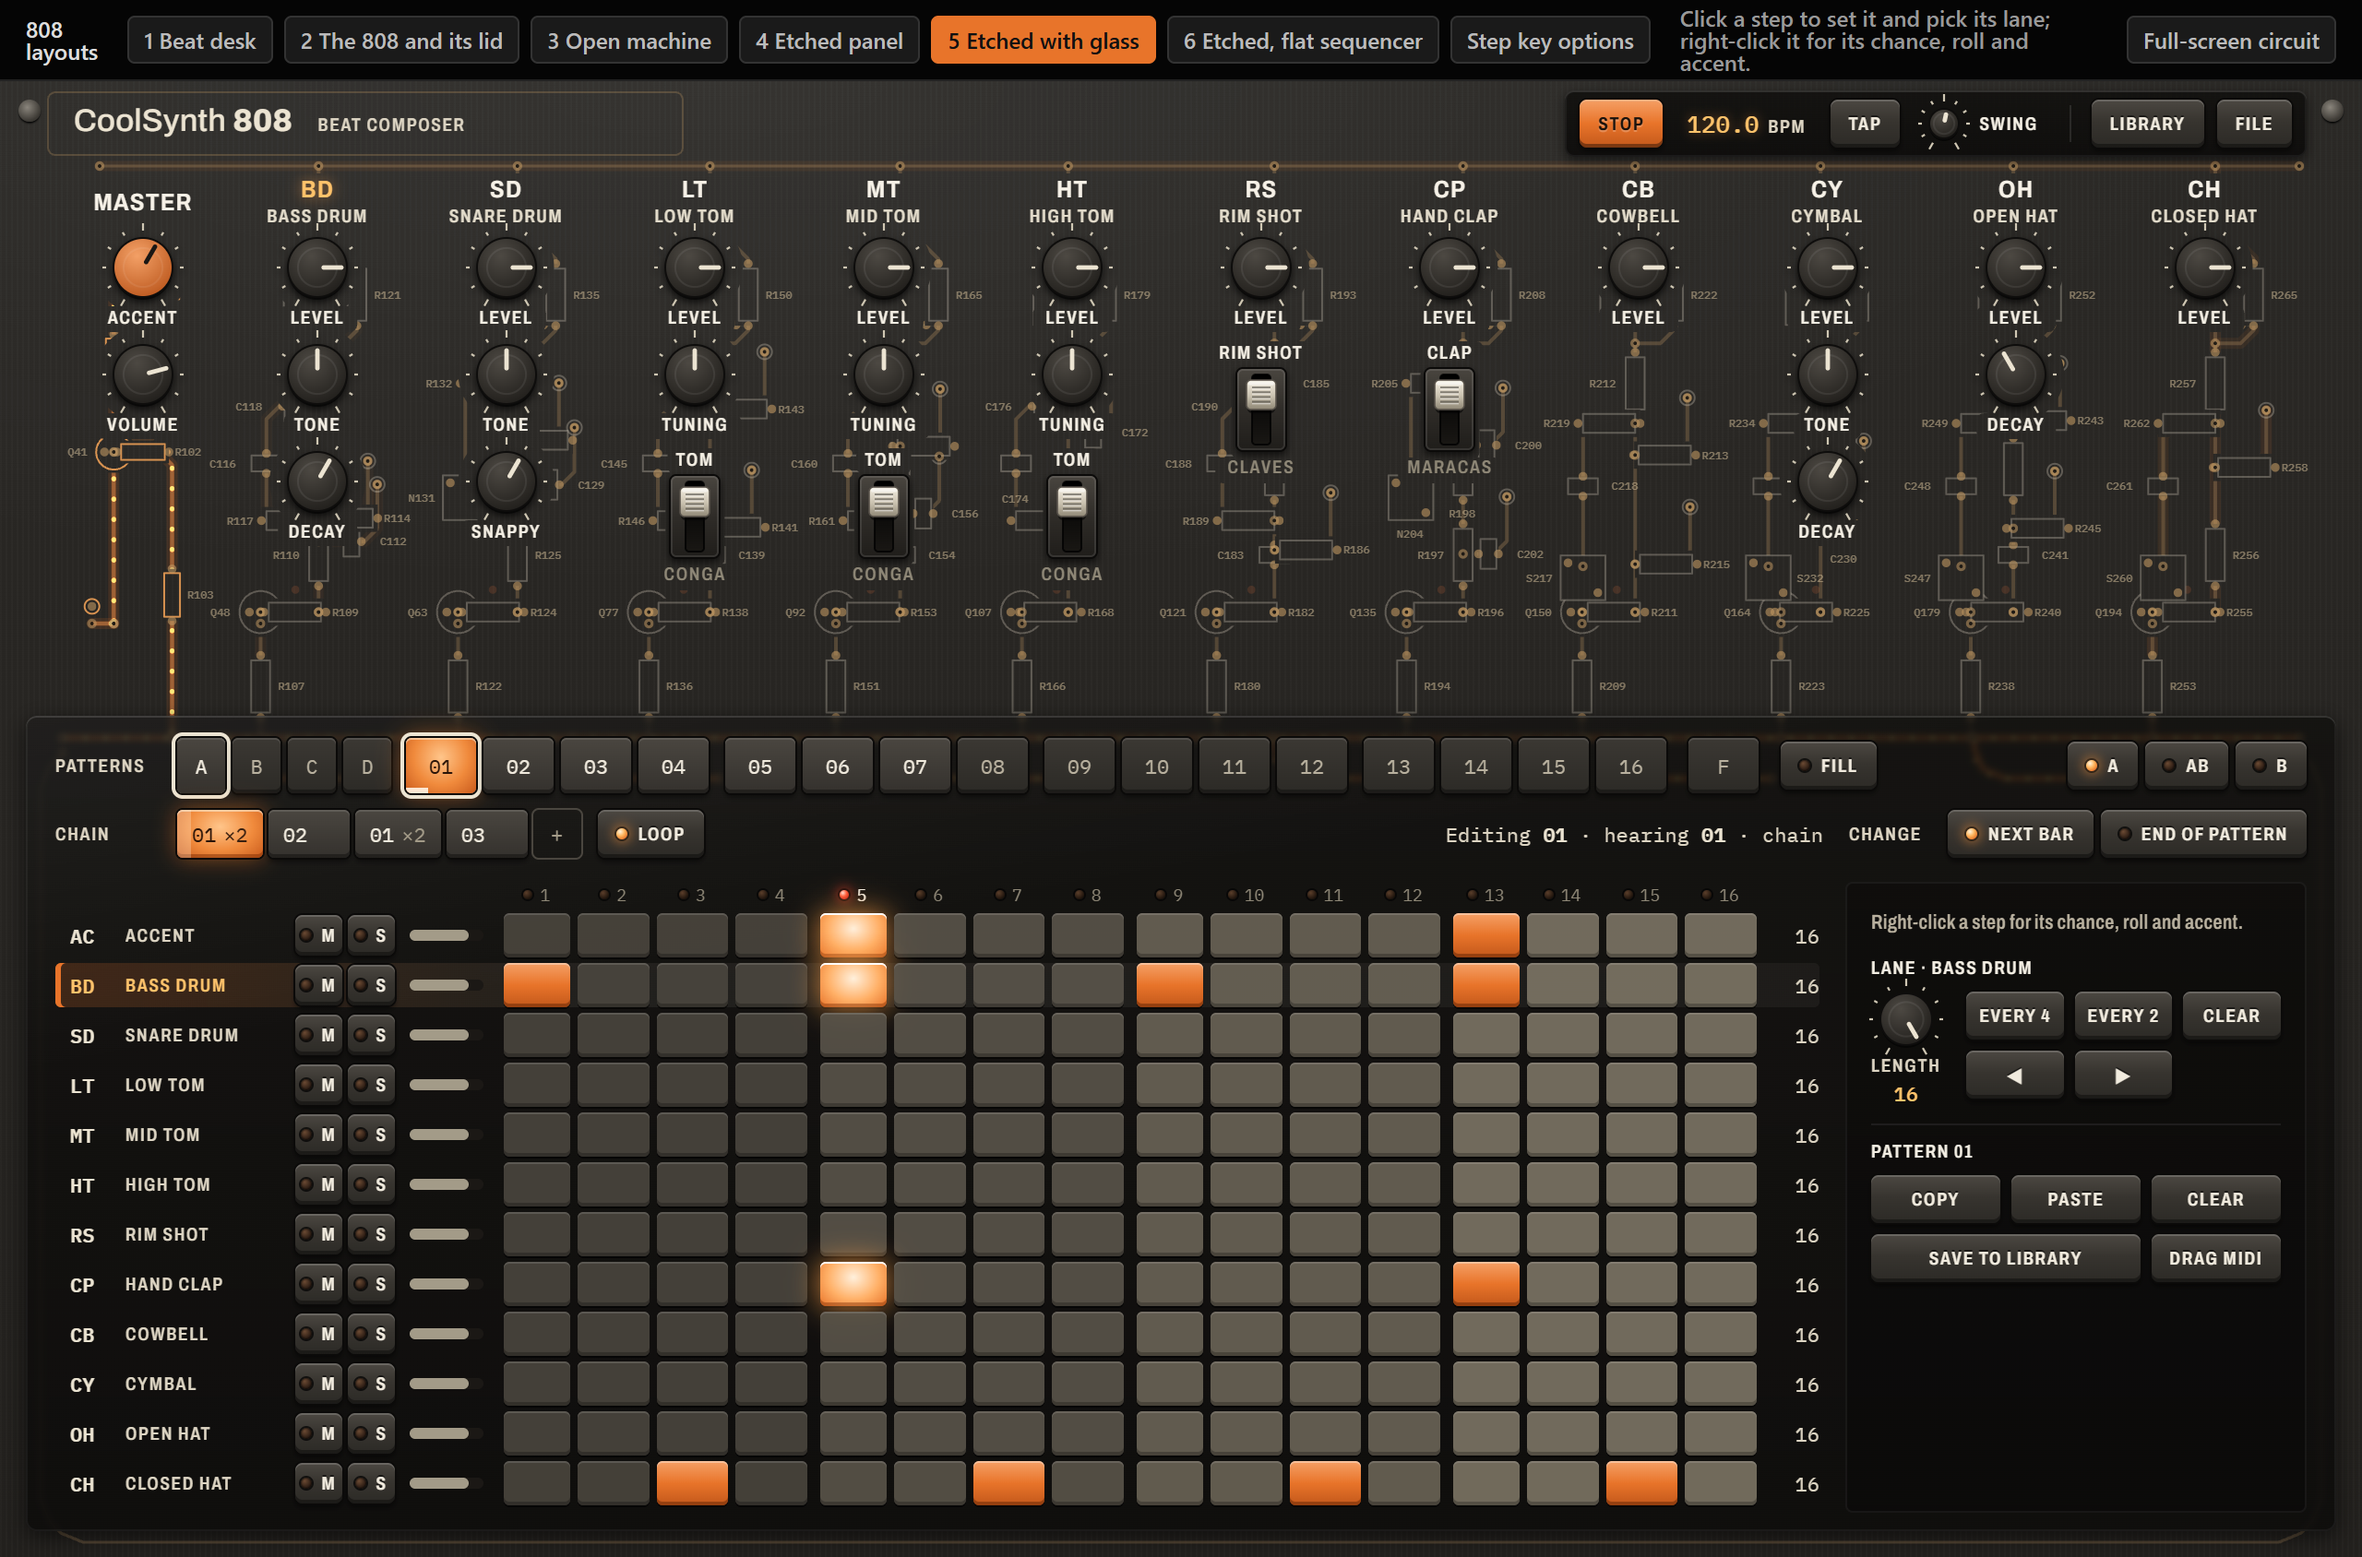
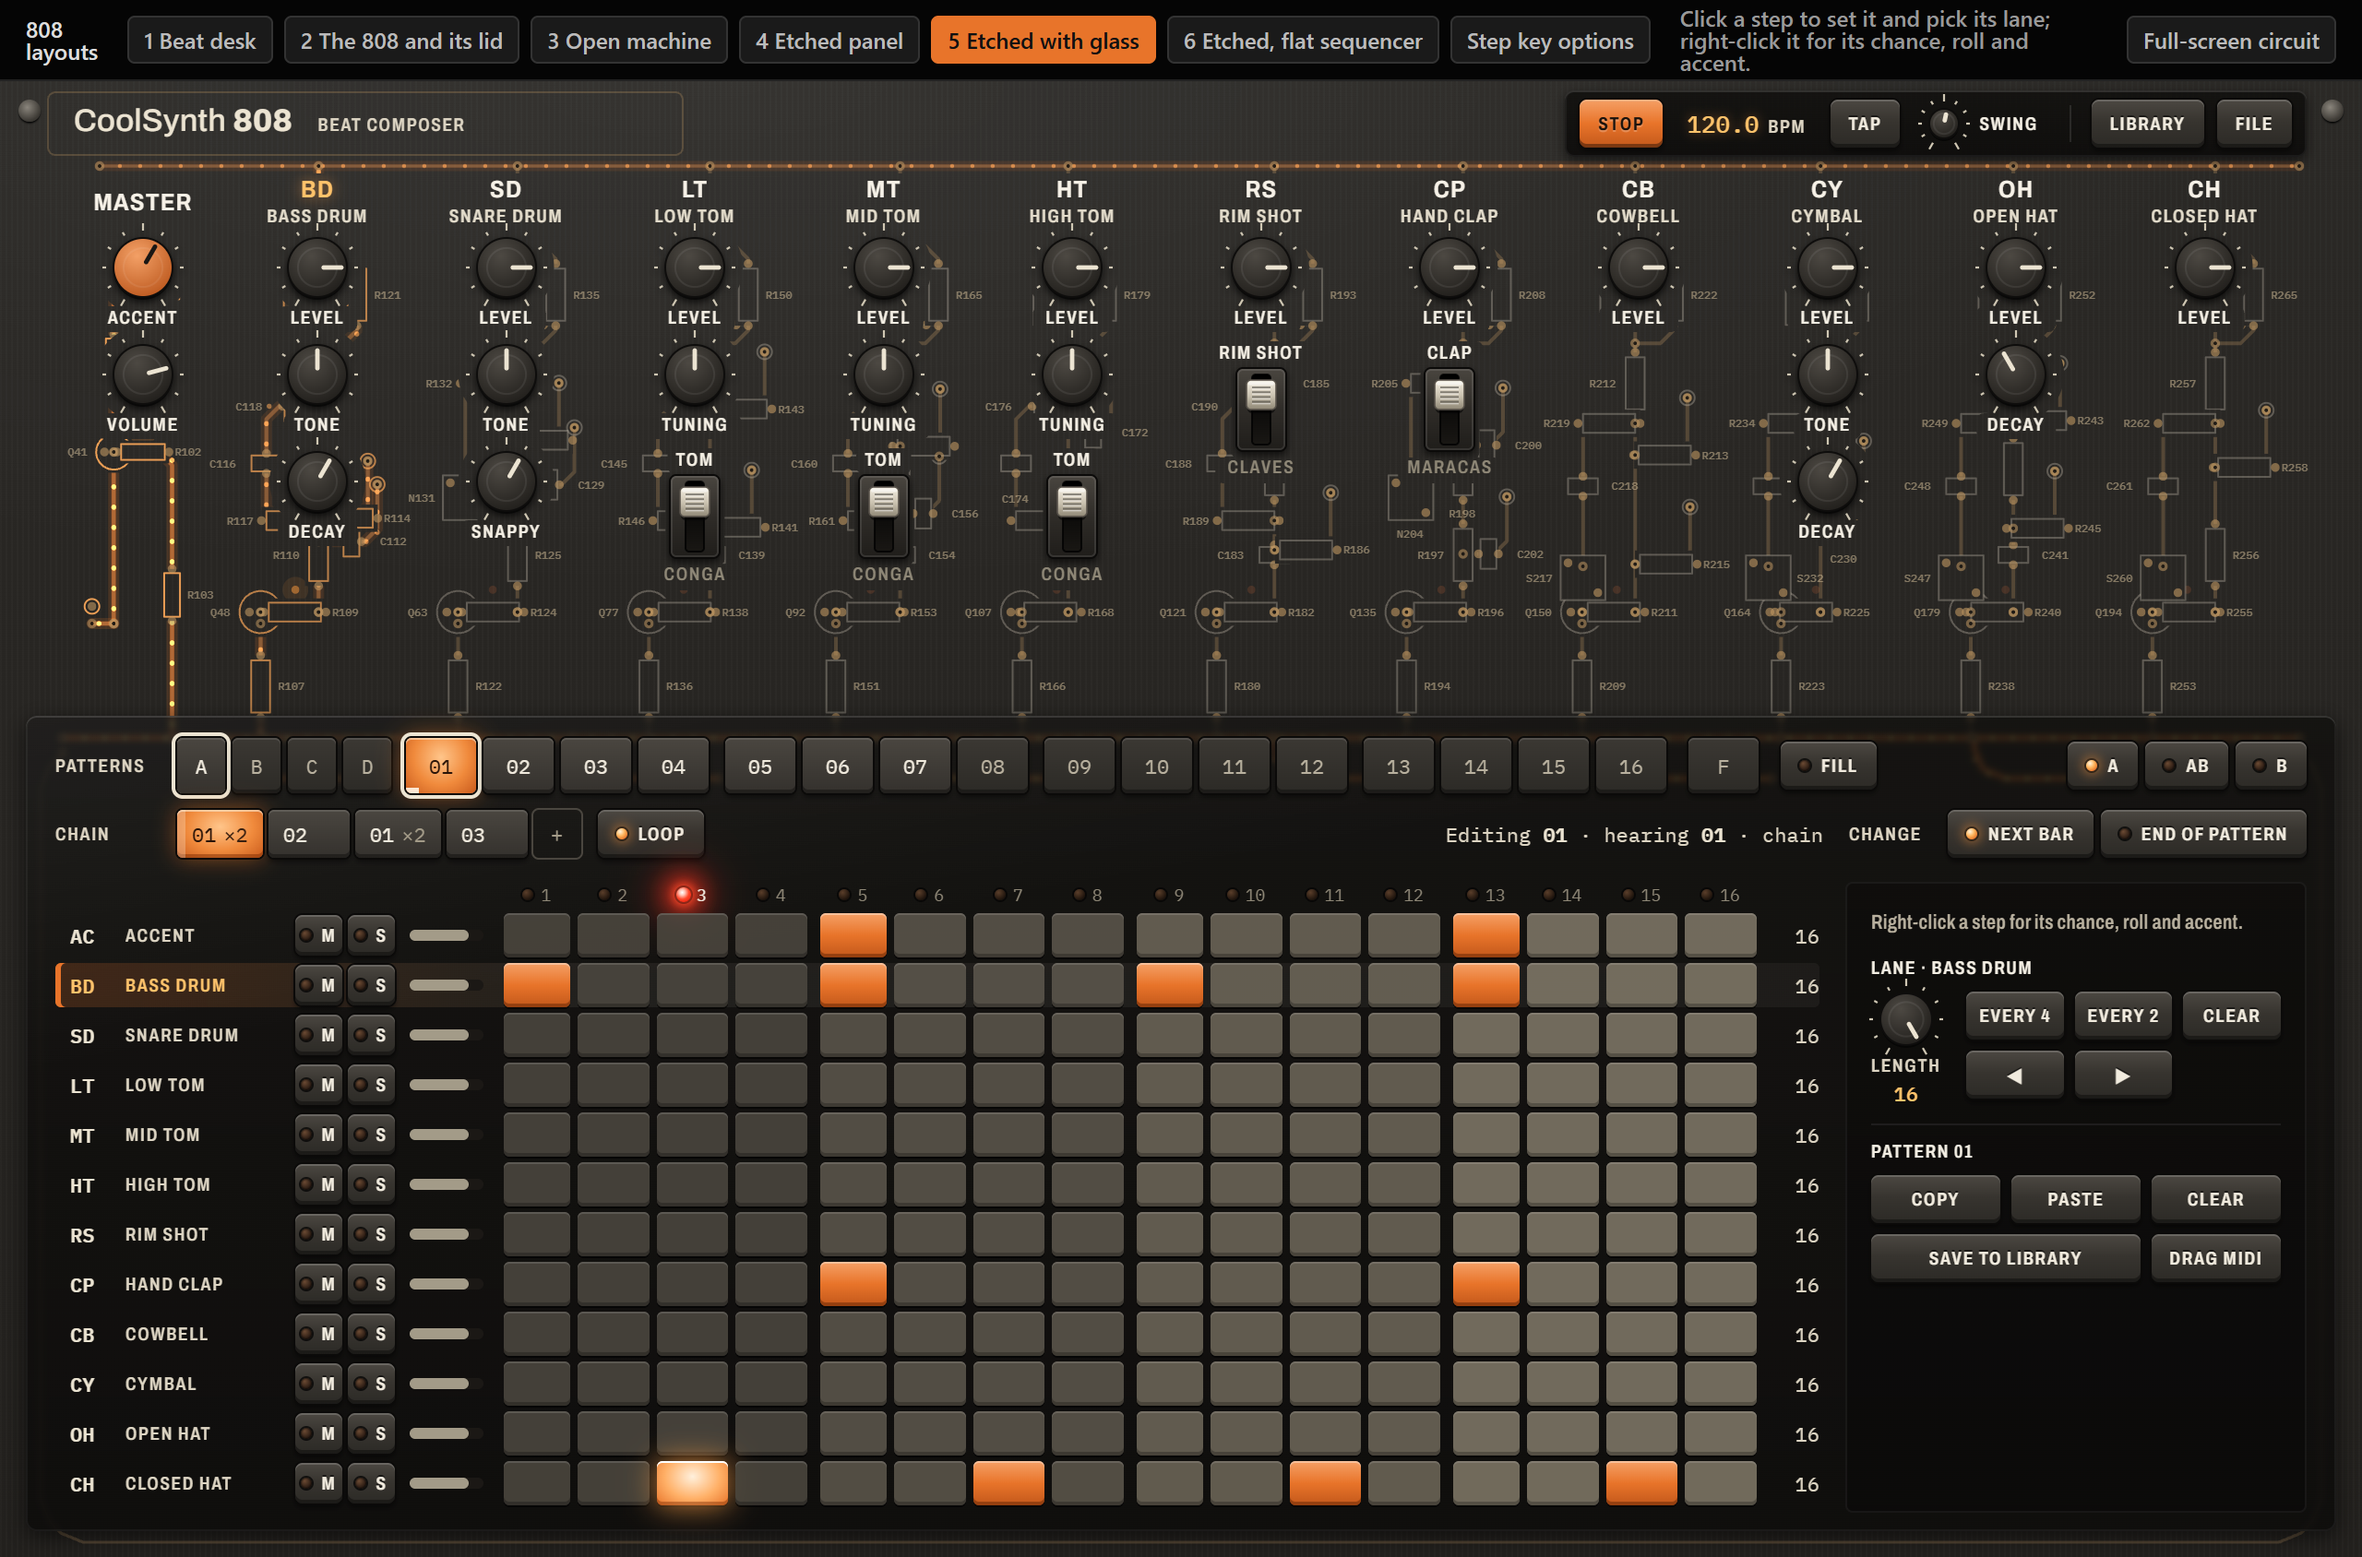
D291: the red step light brighter

diff --git a/docs/design/mockups/coolsynth-808-layouts.html b/docs/design/mockups/coolsynth-808-layouts.html
@@ -55,7 +55,9 @@ button { font: inherit; color: inherit; }
 .ksteps .lamp:nth-child(4n+1) { margin-left: 3px; }
 .lamp i { width: 5px; height: 5px; border-radius: 50%; background: radial-gradient(circle at 35% 30%, #5a3e2a, #1d130c 72%); box-shadow: 0 0 0 1px rgba(0,0,0,.6); }
 .lamp span { font-family: var(--mono); font-size: 9px; color: #8f8877; }
-.lamp.cur i { background: radial-gradient(circle at 35% 30%, #ffe0d6, #ff5a3c 42%, #c8241a 78%); box-shadow: 0 0 0 1px rgba(0,0,0,.5), 0 0 7px 1px rgba(255,60,40,.85); }
+.lamp i { width: 6px; height: 6px; }
+.lamp.cur i { width: 8px; height: 8px; margin: -1px; background: radial-gradient(circle at 40% 35%, #ffffff, #ffc2b4 22%, #ff4528 52%, #e8200f 85%);
+  box-shadow: 0 0 0 1px rgba(0,0,0,.35), 0 0 5px 2px #ff4a2a, 0 0 14px 7px rgba(255,50,30,.75), 0 0 26px 10px rgba(255,40,20,.3); }
 .lamp.cur span { color: #f4efe4; }
 .key.off { opacity: .38; }
 .key.small::before { top: 4px; width: 70%; height: 4px; }

diff --git a/DECISIONS_LOG.md b/DECISIONS_LOG.md
@@ -6316,3 +6316,4 @@ The VCO in the engine (`Tb303Oscillator.h`) against vco.cir at low C, A, high C 
 - Then, the user: the pattern playing and the chain's block playing are backlit keys (the option of the glowing
   key), and the step lights above the lanes, only those, turn towards red.
 - And an orange cap that sounds lights up from inside, as the backlit key does, then falls back to the plain cap.
+- The red step light made brighter: a larger lamp, a white-hot centre and a wider glow.
